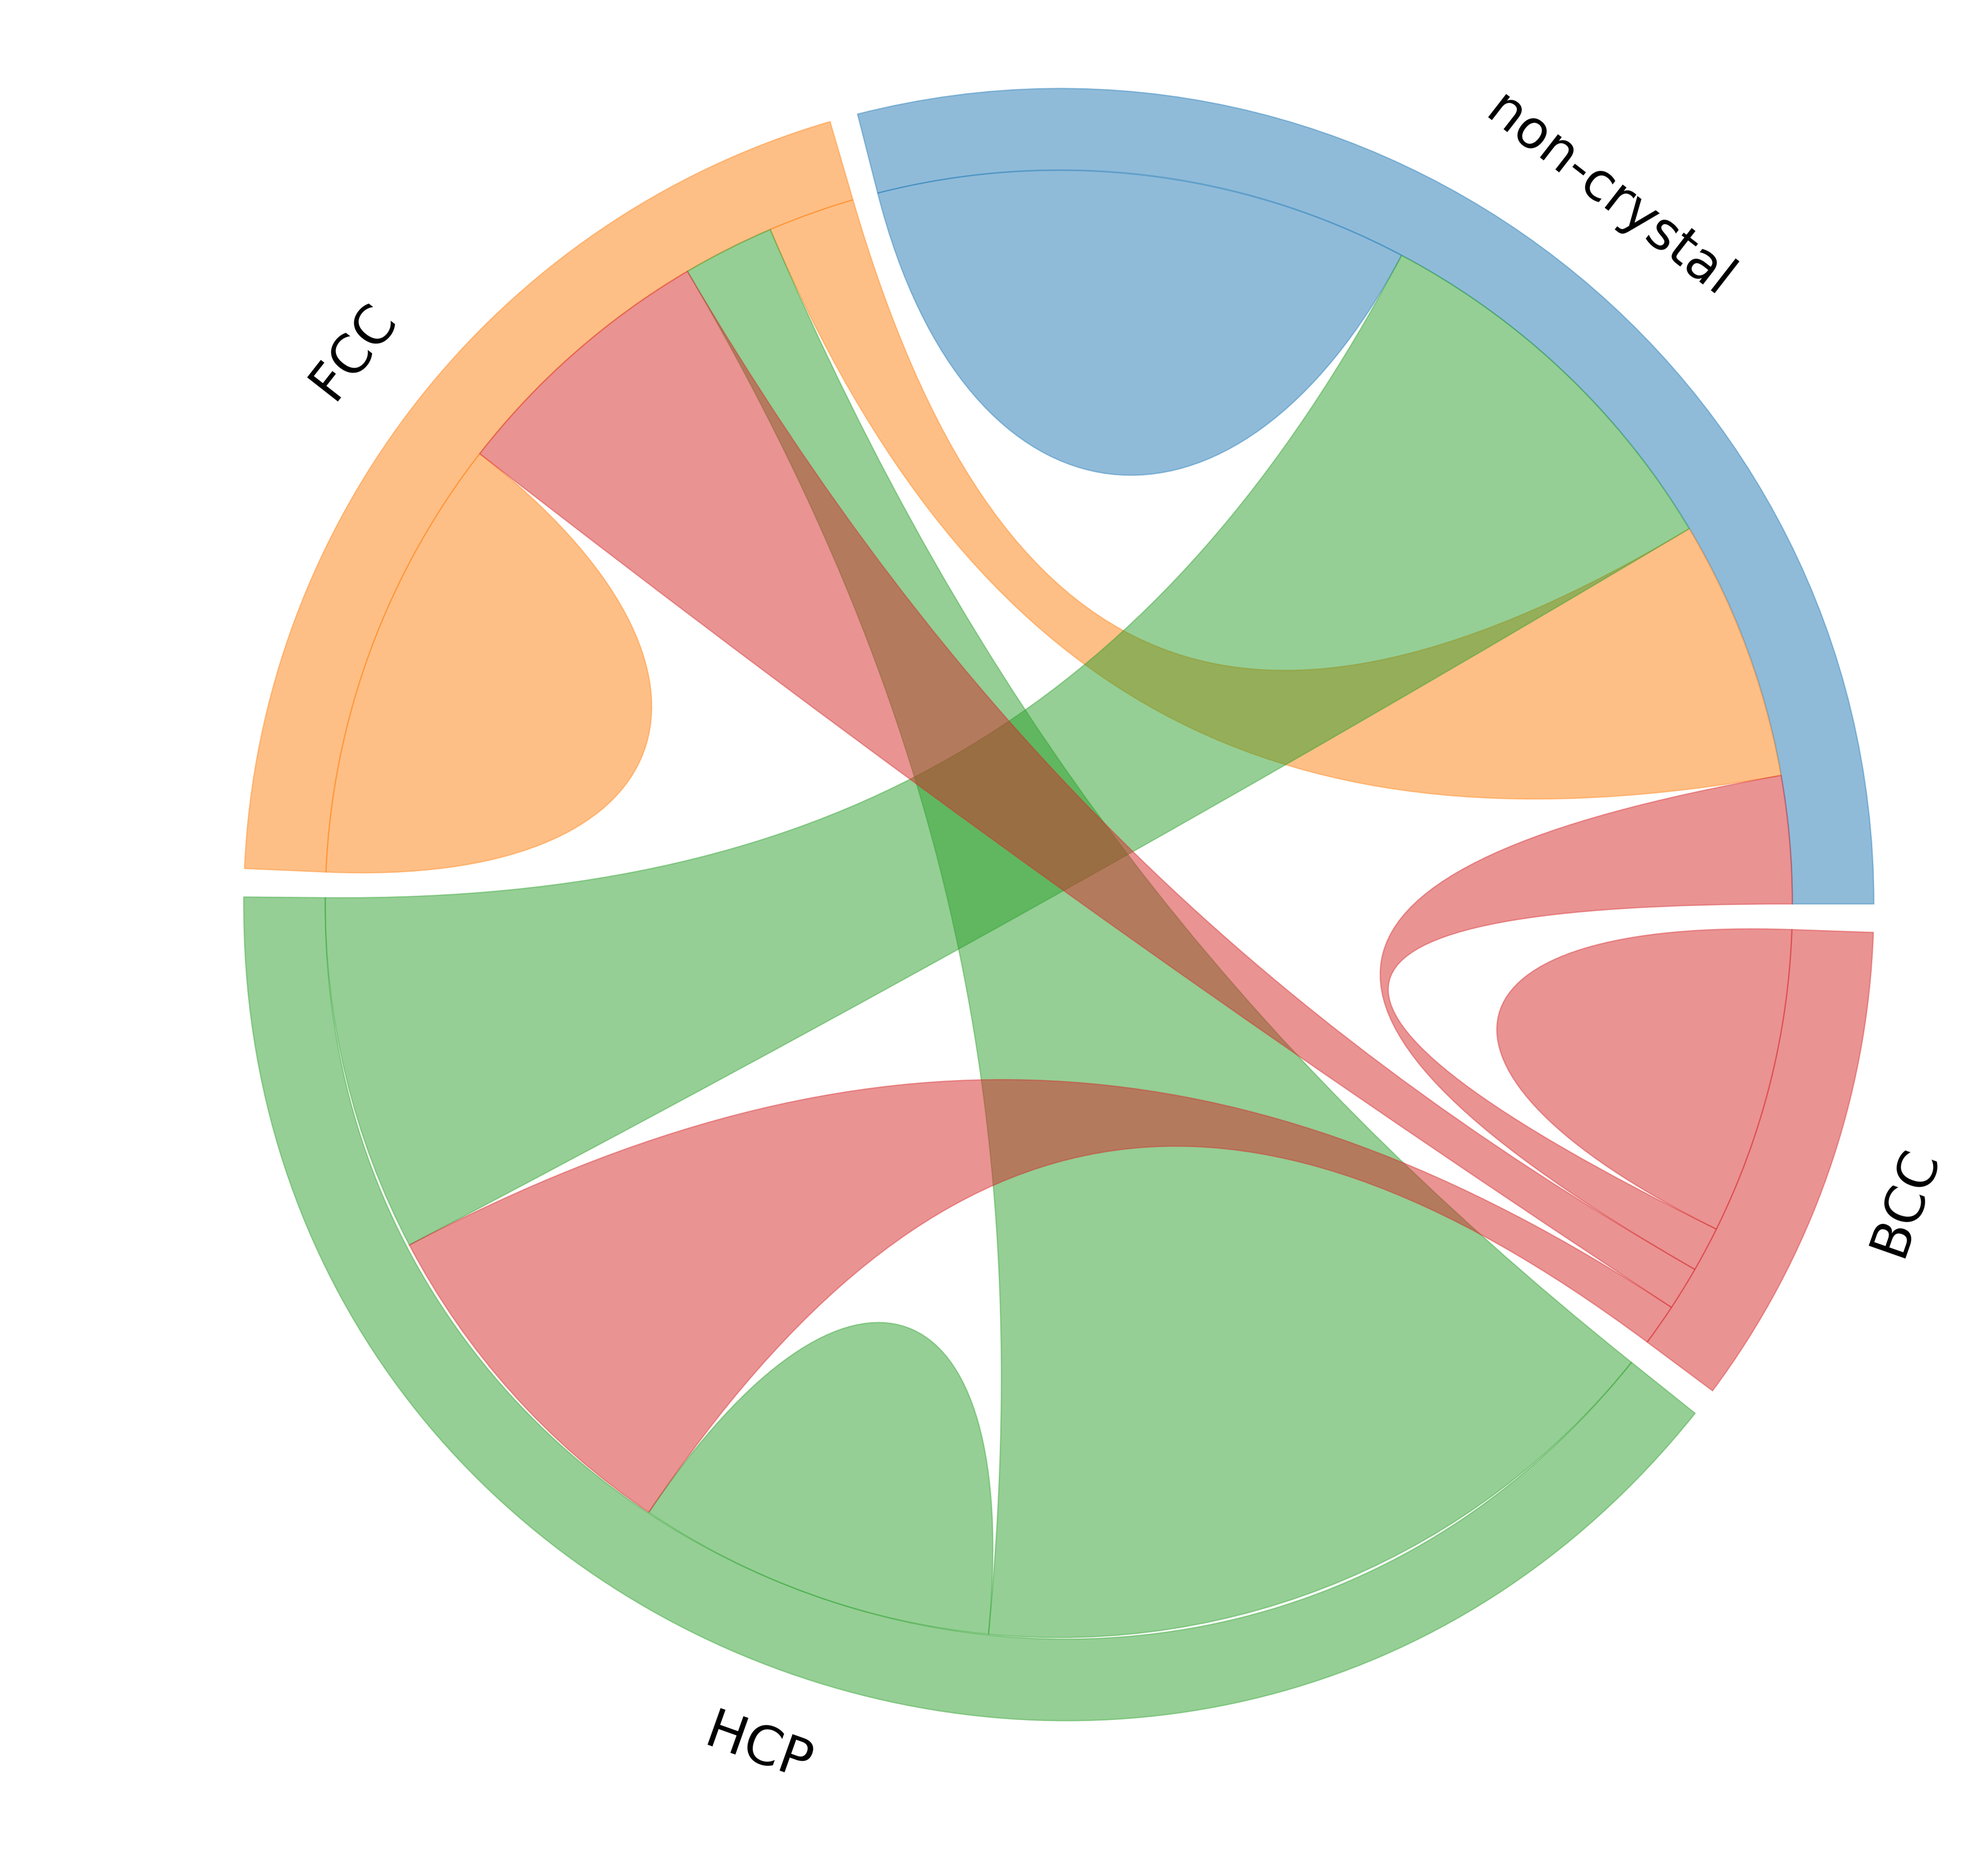
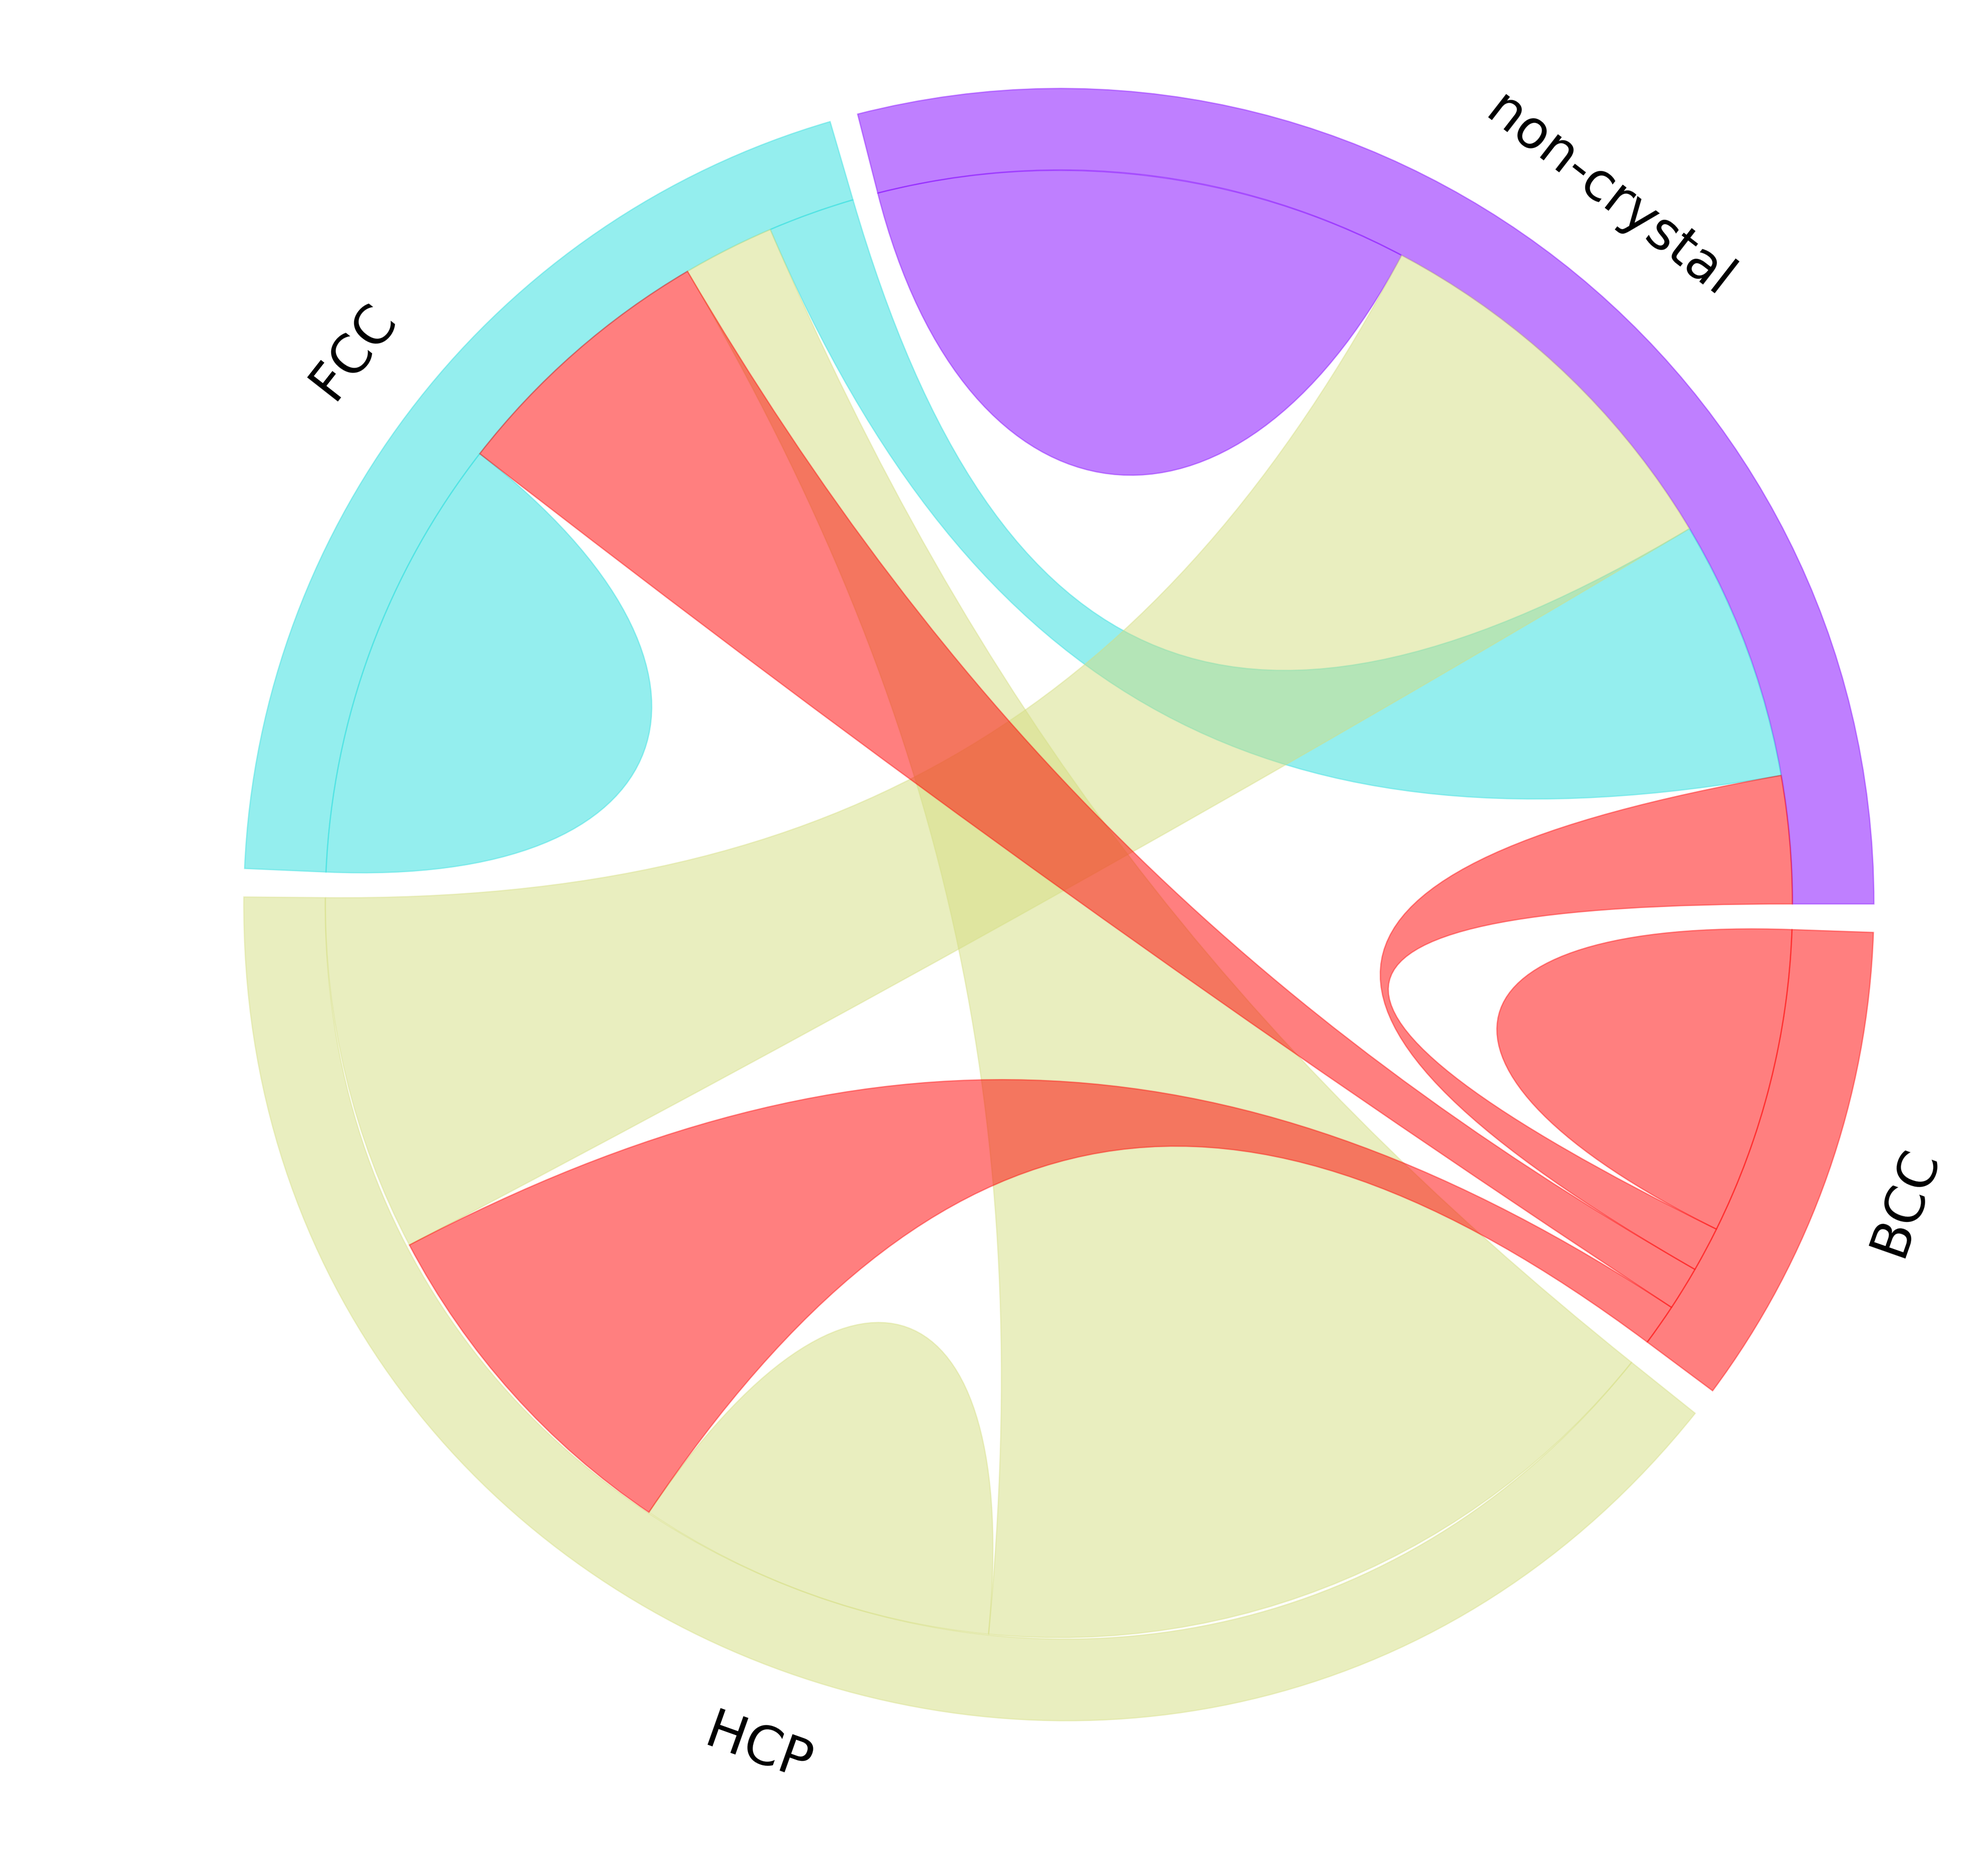
Updated and corrected error in color management

diff --git a/matplotlib-chord.py b/matplotlib-chord.py
@@ -140,7 +140,7 @@ def selfChordArc(start=0, end=60, radius=1.0, chordwidth=0.7, ax=None, color=(1,
         patch = patches.PathPatch(path, facecolor=tuple(color)+(0.5,), edgecolor=tuple(color)+(0.4,), lw=LW)
         ax.add_patch(patch)
 
-def chordDiagram(X, ax, colors=None, cmap=None, width=0.1, pad=2, chordwidth=0.7):
+def chordDiagram(X, ax, colors=None, cmap='rainbow', width=0.1, pad=2, chordwidth=0.7):
     """Plot a chord diagram
 
     Parameters
@@ -166,19 +166,13 @@ def chordDiagram(X, ax, colors=None, cmap=None, width=0.1, pad=2, chordwidth=0.7
     ax.set_ylim(-1.1, 1.1)
     
     import matplotlib.pyplot as plt
-    if cmap is not None:
+    if (len(x) > 10) or (colors is None):
         cm = plt.get_cmap(cmap) 
         colors = cm(np.linspace(0,1,len(x)))[:,:3]
     else:
-        if colors is None:
-        # use d3.js category10 https://github.com/d3/d3-3.x-api-reference/blob/master/Ordinal-Scales.md#category10
-            if len(x) <= 10:
-                colors = ['#1f77b4', '#ff7f0e', '#2ca02c', '#d62728', '#9467bd',
-                          '#8c564b', '#e377c2', '#7f7f7f', '#bcbd22', '#17becf']
-                colors = [hex2rgb(colors[i]) for i in range(len(x))]
-            else:
-                cm = plt.get_cmap('rainbow')
-                colors = cm(np.linspace(0,1,len(x)))[:,:3]
+        colors = ['#1f77b4', '#ff7f0e', '#2ca02c', '#d62728', '#9467bd',
+                  '#8c564b', '#e377c2', '#7f7f7f', '#bcbd22', '#17becf']
+        colors = [hex2rgb(colors[i]) for i in range(len(x))]
 
     # find position for each start and end
     y = x/np.sum(x).astype(float) * (360 - pad*len(x))
